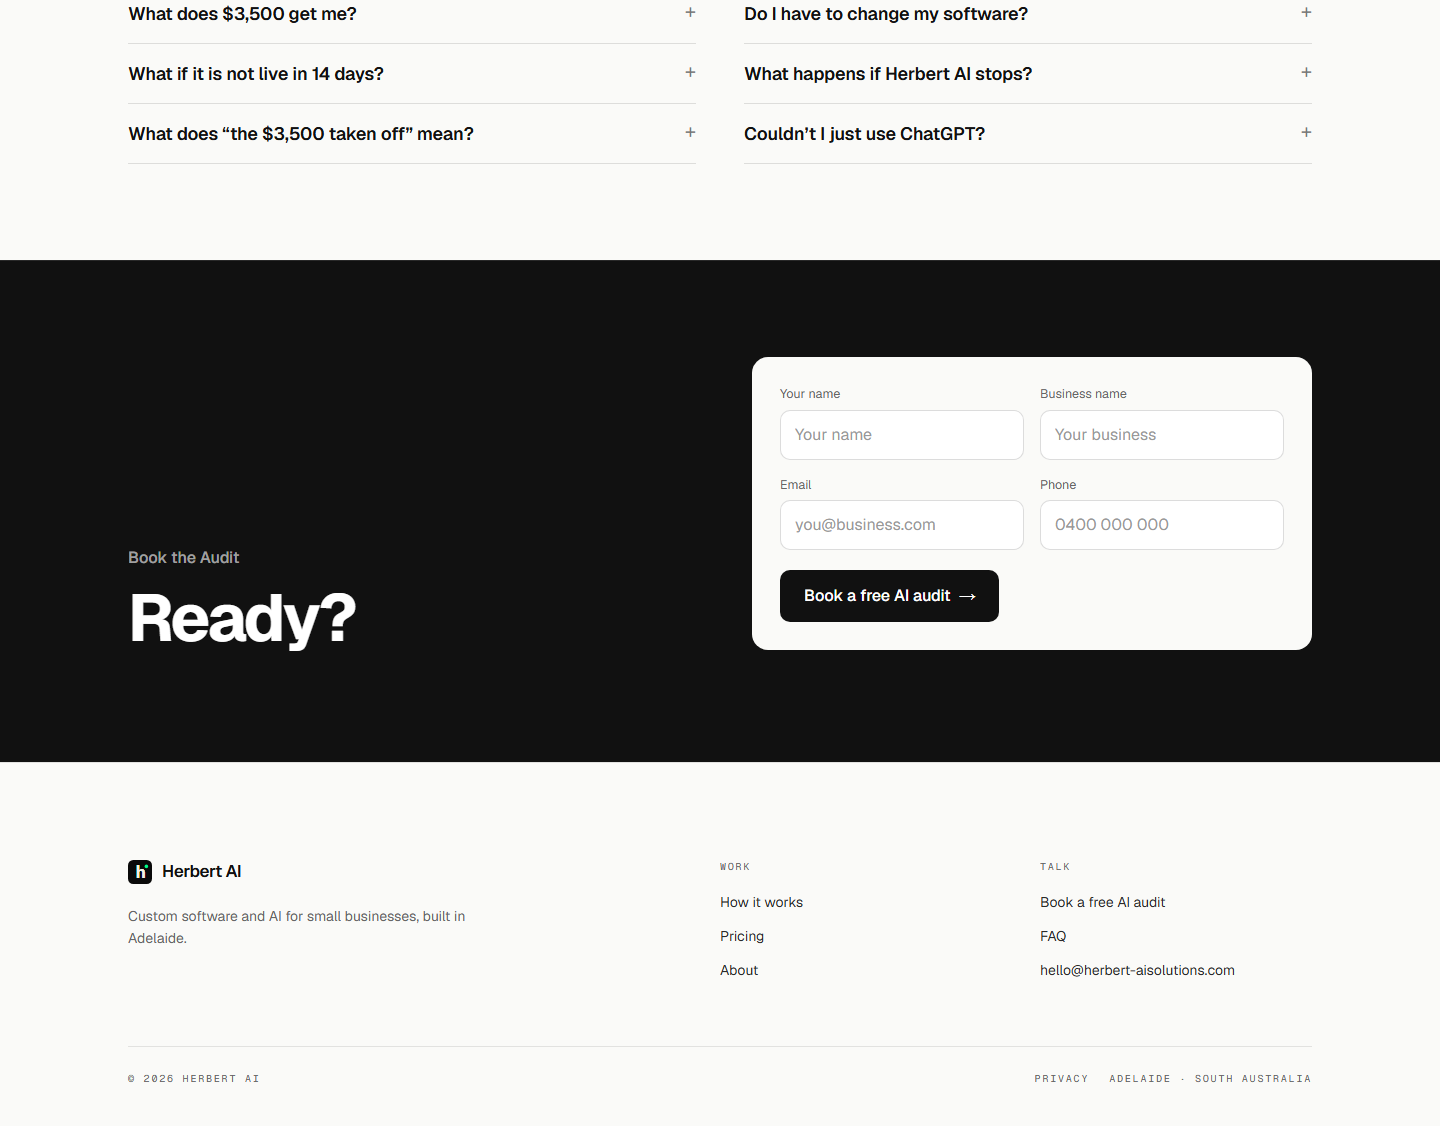
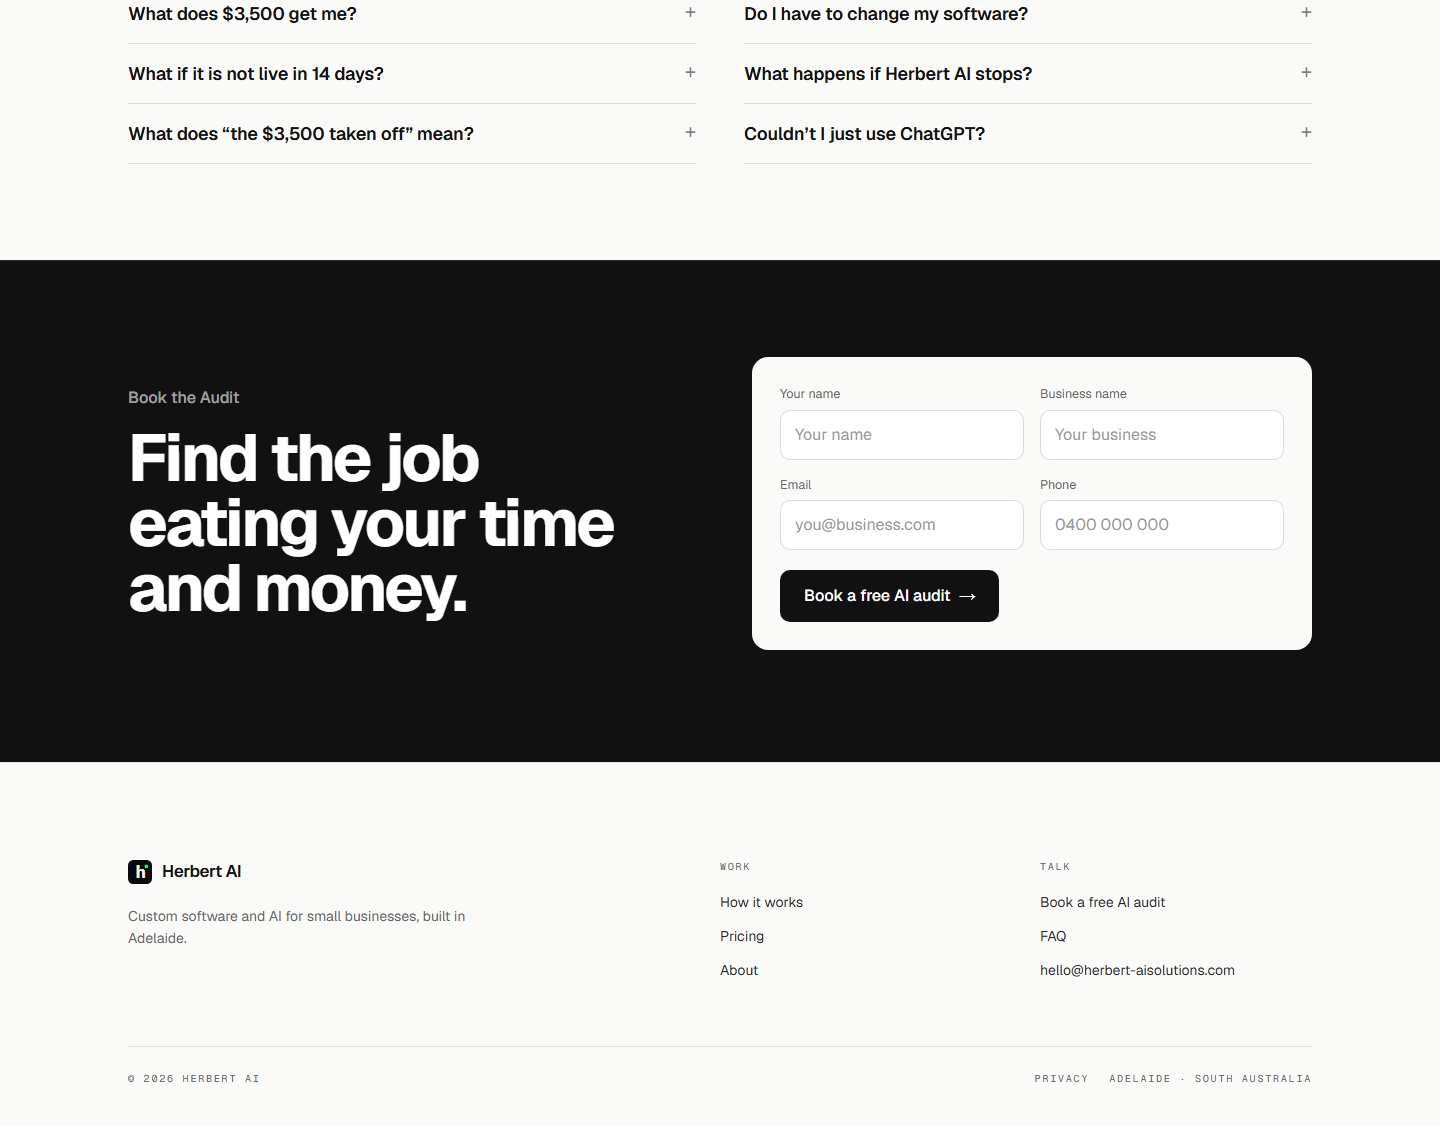
pilot close: the first section's heading, centred against the form
Section 7's details as Will picked them: "Find the job eating your time and
money." so the page opens and closes on it, the label, four fields and dark
band kept. Every section of /pilot is now done.

Changed region(s): [[0.0938, 0.3419, 0.4375, 0.5906]]

diff --git a/herbertai-website/docs/design/design-pass-site-2026-11-22-pilot-close-built.html b/herbertai-website/docs/design/design-pass-site-2026-11-22-pilot-close-built.html
@@ -1,6 +1,6 @@
 <!doctype html><meta charset=utf-8><title>/pilot the close, as built</title><style>
 body{margin:0;background:#151515;color:#eee;font:14px/1.45 -apple-system,Helvetica,Arial,sans-serif;padding:36px 40px} h1{font-size:26px;margin:0 0 8px;font-weight:600} .intro{color:#aaa;max-width:1200px;margin:0 0 18px}
 .wrap{display:flex;flex-wrap:wrap;gap:24px;align-items:flex-start} figure{margin:0} figcaption{color:#aaa;margin-bottom:6px} img{display:block;border:1px solid #333}</style><body>
-<h1>/pilot section 7, the close, as built (Will, 22 Nov 2026: B, the form again)</h1>
-<p class="intro">The real page's end at 1440, 1280, 375 and 320: the bottom of the questions, the dark close band with the form, the footer. forms on the page 2, ids used twice none, every label points into its own form True · hidden fields that differ between the two forms: ['subject']; subjects ['New AI audit request · /pilot', 'New AI audit request · /pilot (end)'] · required fields: first form ['name', 'business', 'email', 'phone', 'message'], end form ['name', 'business', 'email', 'phone'] · clicking the end form's Email label focuses #end-email · clicking the first form's Email label focuses #email · home page form ids unchanged: ['', 'name', 'business', 'email', 'phone'].</p>
+<h1>/pilot section 7, the close, as built (Will, 22 Nov 2026: B, the form again; details: the first section's heading, centred against the form)</h1>
+<p class="intro">The real page's end at 1440, 1280, 375 and 320: the bottom of the questions, the dark close band with the form, its heading the first section's own line, centred against the form, then the footer. forms on the page 2, ids used twice none, every label points into its own form True · hidden fields that differ between the two forms: ['subject']; subjects ['New AI audit request · /pilot', 'New AI audit request · /pilot (end)'] · required fields: first form ['name', 'business', 'email', 'phone', 'message'], end form ['name', 'business', 'email', 'phone'] · clicking the end form's Email label focuses #end-email · clicking the first form's Email label focuses #email · home page form ids unchanged: ['', 'name', 'business', 'email', 'phone'].</p>
 <div class="wrap"><figure><figcaption>1440</figcaption><img src="assets-2026-11-22/pilot-close-built-1440.png" style="width:900px"></figure><figure><figcaption>1280</figcaption><img src="assets-2026-11-22/pilot-close-built-1280.png" style="width:900px"></figure><figure><figcaption>375</figcaption><img src="assets-2026-11-22/pilot-close-built-375.png" style="width:260px"></figure><figure><figcaption>320</figcaption><img src="assets-2026-11-22/pilot-close-built-320.png" style="width:230px"></figure></div></body>

diff --git a/herbertai-website/src/app/components/site/pilot-close.js b/herbertai-website/src/app/components/site/pilot-close.js
@@ -10,6 +10,11 @@ import AuditForm from './AuditForm'
 // same code; the page uses the defaults. ground: 'dark' (the home page's band),
 // 'paper' (the page's own ground), 'hero' (paper, laid out like /pilot's first
 // section with its three terms). label: null for none.
+//
+// Will, 22 Nov 2026, the details: the heading is the first section's own line,
+// so the page opens and closes on it ("I think we make it find the job, eating
+// your time and money"); label, fields and dark band as built; the heading
+// centred against the form ("Can we have that centered?").
 
 const HERO_TERMS = [
   ['Free', 'No obligation'],
@@ -17,11 +22,11 @@ const HERO_TERMS = [
   ['2 days', 'Your written report'],
 ]
 
-export default function PilotClose({ heading = 'Ready?', label = 'Book the Audit', message = false, ground = 'dark' }) {
+export default function PilotClose({ heading = 'Find the job eating your time and money.', label = 'Book the Audit', message = false, ground = 'dark' }) {
   const dark = ground === 'dark'
   return (
     <section className={dark ? 'bg-[#111] text-white border-t border-white/10' : 'bg-[#FAFAF8] text-[#111] border-t border-[#111]/10'}>
-      <div className={`max-w-[1280px] mx-auto px-6 lg:px-12 pt-24 pb-28 grid lg:grid-cols-2 gap-x-16 gap-y-12 ${ground === 'hero' ? 'items-start' : 'items-end'}`}>
+      <div className={`max-w-[1280px] mx-auto px-6 lg:px-12 pt-24 pb-28 grid lg:grid-cols-2 gap-x-16 gap-y-12 ${ground === 'hero' ? 'items-start' : 'items-center'}`}>
         <div className="min-w-0">
           {label && <p className={`text-[16px] font-medium mb-4 ${dark ? 'text-white/60' : 'text-[#555]'}`}>{label}</p>}
           <h2 className="font-bold tracking-[-0.04em] leading-[0.98] max-w-[14ch] text-balance" style={{ fontSize: 'clamp(40px, 4.6vw, 68px)' }}>

diff --git a/herbertai-website/docs/design/design-pass-site-2026-11-22-pilot-close-built.py b/herbertai-website/docs/design/design-pass-site-2026-11-22-pilot-close-built.py
@@ -22,13 +22,14 @@ CHECK_JS = r"""() => {
   const diff = forms.length === 2 ? Object.keys({ ...hidden[0], ...hidden[1] }).filter(k => hidden[0][k] !== hidden[1][k]) : ['forms: ' + forms.length];
   const req = forms.map(f => [...f.querySelectorAll('[required]')].map(e => e.name));
   return { forms: forms.length, dup, labels, diff, subjects: hidden.map(h => h.subject), required: req } }"""
-TIDY_JS = r"""() => { const s = [...document.querySelectorAll('section')].find(x => x.querySelector('h2')?.textContent.trim() === 'Ready?'); const out = [];
+TIDY_JS = r"""() => { const s = [...document.querySelectorAll('section')].find(x => x.querySelector('h2')?.textContent.trim() === 'Find the job eating your time and money.'); const out = [];
   for (const el of s.querySelectorAll('h2, p, label, button')) { if (!el.offsetParent) continue;
     const tn = []; const w = document.createTreeWalker(el, NodeFilter.SHOW_TEXT); while (w.nextNode()) tn.push(w.currentNode);
     const words = []; for (const n of tn) { const re = /\S+/g; let m; while ((m = re.exec(n.data))) { const r = document.createRange(); r.setStart(n, m.index); r.setEnd(n, m.index + m[0].length); const b = r.getBoundingClientRect(); if (b.width) words.push({ t: m[0], top: Math.round(b.top) }); } }
     if (words.length < 3) continue; const tops = [...new Set(words.map(x => x.top))]; if (tops.length < 2) continue;
     const last = Math.max(...tops); const on = words.filter(x => Math.abs(x.top - last) < 4); if (on.length === 1) out.push(on[0].t); }
-  return [out, Math.round(s.getBoundingClientRect().height)] }"""
+  const cols = s.querySelectorAll(':scope > div > div'); const c = [...cols].map(e => { const r = e.getBoundingClientRect(); return r.top + r.height / 2 });
+  return [out, Math.round(s.getBoundingClientRect().height), Math.round(Math.abs(c[0] - c[1]))] }"""
 
 
 async def main():
@@ -45,7 +46,7 @@ async def main():
                 await pg.evaluate("() => document.querySelectorAll('body *').forEach(el => { if (getComputedStyle(el).position === 'fixed') el.style.display = 'none' })")
                 sw, iw = await pg.evaluate("() => [document.documentElement.scrollWidth, window.innerWidth]")
                 if sw > iw: over.append(f"{vw} {motion}: {sw} > {iw}")
-                w, h = await pg.evaluate(TIDY_JS); heights[vw] = h
+                w, h, off = await pg.evaluate(TIDY_JS); heights[vw] = (h, off)
                 if w: tidy.append(f"{vw} {motion}: {w}")
                 if vw == 1440 and motion == "no-preference":
                     c = await pg.evaluate(CHECK_JS)
@@ -59,7 +60,7 @@ async def main():
                     foc2 = await pg.evaluate("() => document.activeElement.id")
                     facts.append(f"clicking the first form's Email label focuses #{foc2}")
                 if motion == "no-preference":
-                    sec = pg.locator("section:has(h2:text-is('Ready?'))")
+                    sec = pg.locator("section:has(h2:text-is('Find the job eating your time and money.'))")
                     await sec.scroll_into_view_if_needed(); await pg.wait_for_timeout(250)
                     box = await sec.bounding_box(); foot = await pg.locator("footer").bounding_box()
                     await pg.screenshot(path=str(A / f"pilot-close-built-{vw}.png"), full_page=True,
@@ -72,13 +73,13 @@ async def main():
         await b.close()
     print("errors:", errs or "none"); print("overflow:", over or "none"); print("tidy:", tidy or "clean")
     for f in facts: print(f)
-    print("close heights:", heights)
+    print("close height and heading-to-form centre offset (px):", heights)
     imgs = "".join(f'<figure><figcaption>{vw}</figcaption><img src="assets-2026-11-22/pilot-close-built-{vw}.png" style="width:{w}px"></figure>' for vw, w in [(1440, 900), (1280, 900), (375, 260), (320, 230)])
     html = f"""<!doctype html><meta charset=utf-8><title>/pilot the close, as built</title><style>
 body{{margin:0;background:#151515;color:#eee;font:14px/1.45 -apple-system,Helvetica,Arial,sans-serif;padding:36px 40px}} h1{{font-size:26px;margin:0 0 8px;font-weight:600}} .intro{{color:#aaa;max-width:1200px;margin:0 0 18px}}
 .wrap{{display:flex;flex-wrap:wrap;gap:24px;align-items:flex-start}} figure{{margin:0}} figcaption{{color:#aaa;margin-bottom:6px}} img{{display:block;border:1px solid #333}}</style><body>
-<h1>/pilot section 7, the close, as built (Will, 22 Nov 2026: B, the form again)</h1>
-<p class="intro">The real page's end at 1440, 1280, 375 and 320: the bottom of the questions, the dark close band with the form, the footer. {' · '.join(facts)}.</p>
+<h1>/pilot section 7, the close, as built (Will, 22 Nov 2026: B, the form again; details: the first section's heading, centred against the form)</h1>
+<p class="intro">The real page's end at 1440, 1280, 375 and 320: the bottom of the questions, the dark close band with the form, its heading the first section's own line, centred against the form, then the footer. {' · '.join(facts)}.</p>
 <div class="wrap">{imgs}</div></body>"""
     f = D / "design-pass-site-2026-11-22-pilot-close-built.html"; f.write_text(html, encoding="utf-8")
     async with async_playwright() as p:

diff --git a/herbertai-website/docs/design/design-pass-site-2026-09.md b/herbertai-website/docs/design/design-pass-site-2026-09.md
@@ -29,7 +29,7 @@ done. Updated in the same commit as the work.
 | 4. Whole page | [x] | Signed off 20 Oct 2026: Founder at the bottom, the footer on the charter, the hero board holds its height, OS and Products fill the screen |
 | 5. Phones | [x] | Signed off 20 Oct 2026: every homepage section works as a phone design |
 | 6. Words and claims | [x] | Homepage claims list cleared 20 Oct 2026; the cold read of every page built 30 Oct 2026 (Will: "All 69"), the charter’s wording test now a cold read (rules 1, 8, 9) |
-| 7. Other pages | [~] | The page list is settled (Will, 22 Nov 2026: "Yes, cut as listed"): home, /pilot, /pricing, /about, /faq, /privacy, with /demo for the cold emails; everything else redirects (`site-tidy-2026-11-22.md`). /pilot: sections 1 to 6 done, section 7 (Back up to the form) and the page's phases 4 to 6 still to run. Then /pricing, /about and /faq, which are still in the May register, each through phases 2 to 6. No industry, AI Employees or Herbert Reach pages |
+| 7. Other pages | [~] | The page list is settled (Will, 22 Nov 2026: "Yes, cut as listed"): home, /pilot, /pricing, /about, /faq, /privacy, with /demo for the cold emails; everything else redirects (`site-tidy-2026-11-22.md`). /pilot: all seven sections done (22 Nov 2026); the page's phases 4 to 6 (whole page, phones, words and claims) still to run. Then /pricing, /about and /faq, which are still in the May register, each through phases 2 to 6. No industry, AI Employees or Herbert Reach pages |
 | 8. Walkthrough and ship | [ ] | preview/runs-itself merged to main on 30 Oct 2026 at Will’s word ("Merge"), mid phase 7, to ship the tone pass; the lab is live on production, noindex and unlinked, and is removed at this phase |
 
 Phase 3, section by section (facts, options, pick, build, details):
@@ -2360,7 +2360,7 @@ memory records the third slip. From here /pilot runs section by section:
 | 4. What it fixes | [x] | [x] | [x] | [x] | [x] | Done 4 Nov 2026 after the redo (Will: "B"): today’s six jobs and sentences, each under an employee that does that job; fit check, words re-read and tidy all recorded below |
 | 5. What comes next (was After the pilot) | [x] | [x] | [x] | [x] | [x] | Details built 16 Nov 2026 (Will: "1,2,2,3"); the first-three line dropped from /pilot and /pricing while the Proof lane runs (Will: "Drop it from both"). Done 16 Nov |
 | 6. Questions | [x] | [x] | [x] | [x] | [x] | Done 21 Nov 2026: "A, folded", then the five details ("Yep, recommended": heading kept, all closed on load, plus and minus, two runs of six, twelve rows on phones) |
-| 7. Back to the form | [x] | [x] | [x] | [x] | [~] | Will (22 Nov 2026): "do B, the form again", built the same day; details drawn, four three ways each (heading, label, fields, ground), waiting on Will's numbers |
+| 7. Back to the form | [x] | [x] | [x] | [x] | [x] | Done 22 Nov 2026: "do B, the form again", then the details: the first section's heading, "Find the job eating your time and money.", centred against the form; label, four fields and dark band as built |
 
 Next: the hero’s remaining details, 1 the form side, 2 spacing, 3 the phone
 layout; then section 2’s options.
@@ -3495,7 +3495,7 @@ real footer below; the footer got two lab-only props, `always` and `paper`):
 Tidy at 1440, 1280, 375 and 320: no overflow, no errors, no word alone on a
 line. Sheet: `design-pass-site-2026-11-22-pilot-close.png`.
 
-## [~] /pilot section 7, the close: built, details drawn (22 Nov 2026)
+## [x] /pilot section 7, the close: built, details applied, done (22 Nov 2026)
 
 Will (22 Nov 2026), asking what happens after the form is sent: "if they fill
 in their name, business name, email, phone number, and then they click book a
@@ -3541,4 +3541,26 @@ Found while checking, for /pilot's later passes (not fixed here):
 - Words (phase 6): five of /pilot's labels are sentence case ("What you get
   back", "The timeline", "What it fixes", "What comes next", "Questions")
   against the charter's title-case rule (Will, 13 Oct 2026).
+
+Will (22 Nov 2026), on the four details: "Got a job, eating your time and
+money. I think we make it find the job, eating your time and money ... the
+label. Yep, book the [audit] as one, yep. Detail 3 as built, yep. Detail 4 as
+built, yep. Can we have the ready thing centered with the form? Or it's not
+gonna be ready now. It's gonna be find the job, eating your time and money. But
+can we have that centered?" So: the heading is the first section's own line,
+"Find the job eating your time and money." (line 3 of the test, not the
+recommended line 2), so /pilot opens and closes on it; label "Book the Audit",
+four fields and the dark band as built; and the heading block centred against
+the form on laptops (was aligned to its foot). Verified on /pilot at 1440,
+1280, 375 and 320, motion on and off: no overflow, no errors, no word alone on
+a line; the heading block and the form share a centre line at 1440 and 1280
+(0px apart), and stack on phones; the two forms check out as before. Sheet
+refreshed: `design-pass-site-2026-11-22-pilot-close-built.png`. Section 7 is
+done, and with it every section of /pilot.
+
+Also from Will on the same message: "Doing these design passes, it's hard to
+map the recommended 2, 1, 1, 1." Written into design-taste `loop/roadmap.md`
+(step 5): a details recommendation names each pick in words beside its detail,
+in the question and on the buttons, never a bare string of numbers
+(claude-skills 9f9e984).
 

diff --git a/herbertai-website/docs/design/CHARTER.md b/herbertai-website/docs/design/CHARTER.md
@@ -270,9 +270,10 @@ moves. As built, 30 Oct 2026, numbered on the page in
    same list in the FAQPage data, all closed on load, two runs of six. Built
    21 Nov (Will: "A, folded"), details the same day ("Yep, recommended"). Done.
 7. The close: the form again in the home page's dark band, "Book the
-   Audit" and "Ready?", so a reader at the bottom books without going back
-   up. Built 22 Nov (Will: "do B, the form again"); details drawn, not yet
-   picked.
+   Audit" over the first section's own line, "Find the job eating your time
+   and money.", centred against the form, so the page opens and closes on it
+   and a reader at the bottom books without going back up. Built 22 Nov
+   (Will: "do B, the form again"), details the same day. Done.
 
 ## Settled: the homepage (14 Oct 2026, seven sections from 15 Oct 2026)
 
